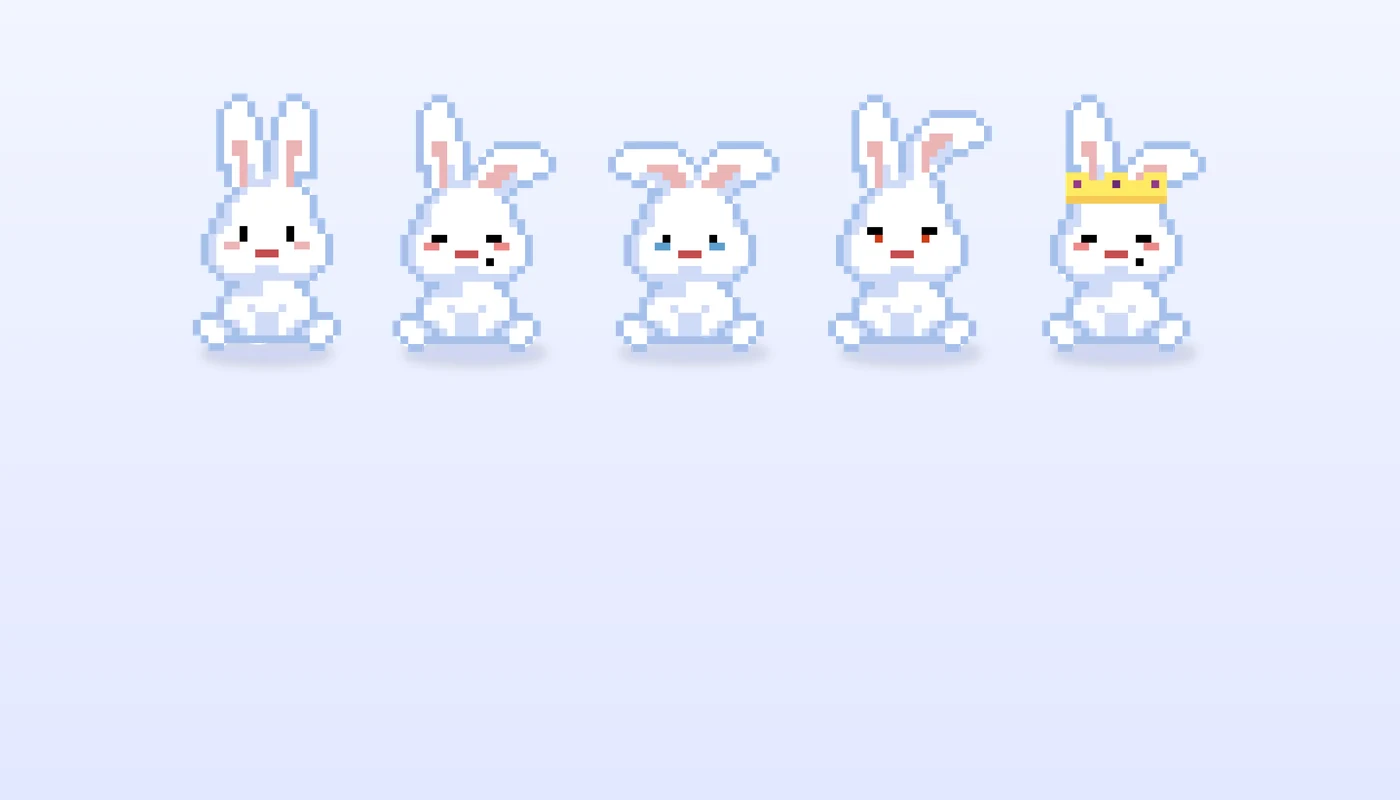
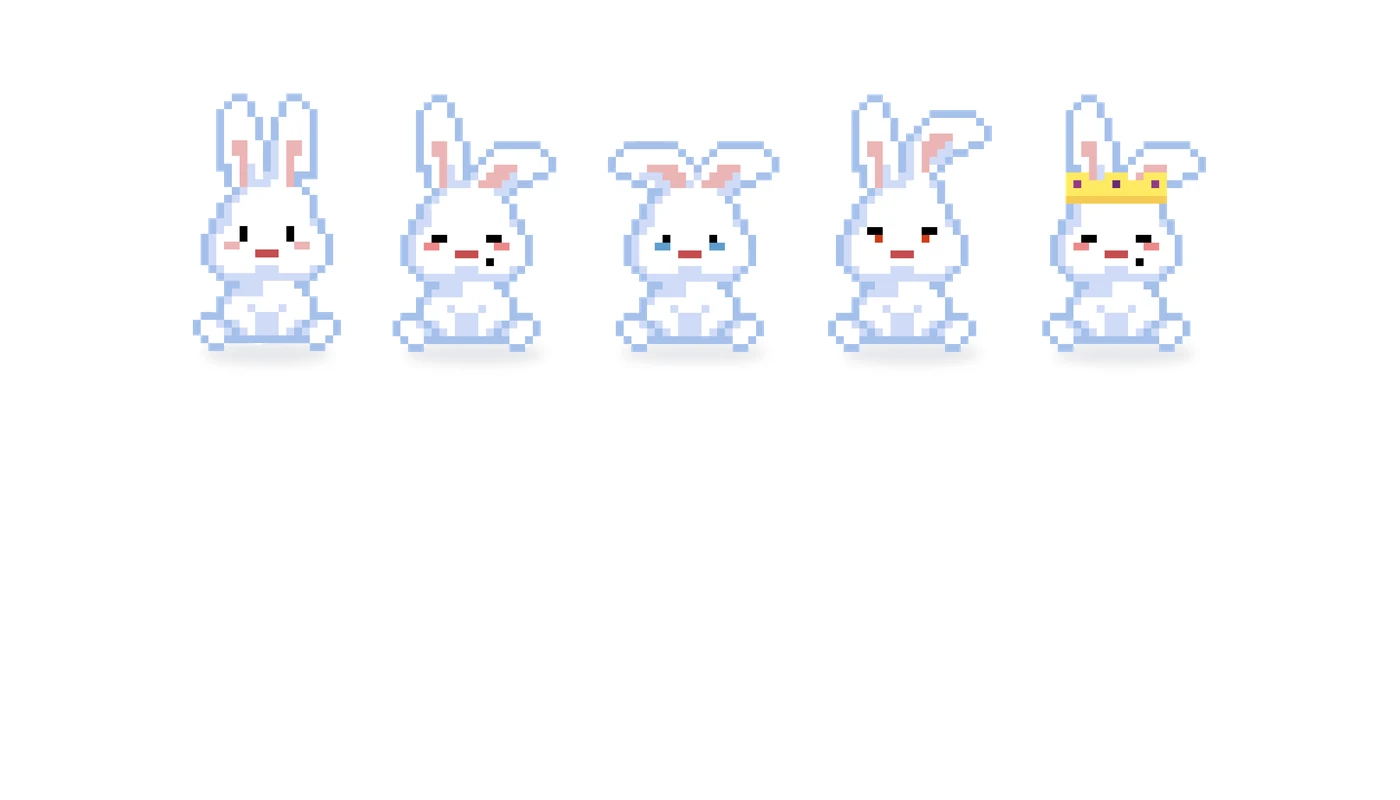
Mochi: a small line of bunnies, no lavender background
The folder thumbnail is white; the project page shows the five moods as a
small transparent strip straight on the page (a new "strip" figure for
papers with `strip: [w, h]`), replacing the boxed lineup.

diff --git a/index.html b/index.html
@@ -228,6 +228,9 @@
   .paper figure { position: relative; margin: clamp(36px, 5vw, 56px) 0 0; }
   .paper figure.single { max-width: 1100px; margin-left: auto; margin-right: auto; aspect-ratio: 16 / 9; border-radius: 22px; overflow: hidden; border: 1px solid #ececf2; background: #fafbff; }
   .paper figure.single img { display: block; width: 100%; height: 100%; object-fit: contain; }
+  /* a small line of artwork that sits straight on the page, no box (Mochi's bunnies) */
+  .paper figure.strip { text-align: center; }
+  .paper figure.strip img { max-width: 100%; height: auto; }
   .paper figure.empty { aspect-ratio: 16 / 7; border-radius: 22px; overflow: hidden; }
   .paper figure .shot-empty { height: 100%; }
   /* screenshots slide past on a loop as glossy tiles; hover to pause */
@@ -1074,7 +1077,8 @@
       title: "Mochi",
       tag: "A pixel productivity bunny who lives on my taskbar and gets upset when I am off task.",
       meta: [["Type", "Windows desktop app"], ["Role", "Designer & Developer"], ["Year", "2026"]],
-      imgs: [["mochi-moods.webp", "Mochi in five moods: cheering me on, proud, sad, angry, and celebrating with a crown"]],
+      imgs: [["mochi-line.webp", "Mochi in five moods: cheering me on, proud, sad, angry, and celebrating with a crown"]],
+      strip: [424, 113],
       story: [
         ["What I Made", ["Website blockers are easy to switch off, so I wanted one built around my own study and work habits, with no loopholes for me to find. I drew Mochi, gave her a spot on my taskbar, and built a desktop app around her."]],
         ["What It Does", ["Mochi watches which app or site I’m on. When I’m working, she’s happy and cheers me on. When I drift off task, she gets sad, then angry, and after 5 minutes a full-screen blocker steps in. Before a session I tell her which task I’m doing, and if I try to end early, she makes me get past her first two excuses. Staying focused earns carrots I can spend on little outfits for her."]],
@@ -1118,7 +1122,9 @@
       : loop
         ? `<div class="pg"><figure class="is-loop"><div class="pg-run" style="--n:${c.imgs.length}${c.ratio ? `;--ratio:${esc(c.ratio)}` : ""}">${[0, 1].map(copy => c.imgs.map(([f, alt]) =>
             `<div class="pg-slide"${copy ? ' aria-hidden="true"' : ""}><img src="assets/works/${esc(f)}" alt="${copy ? "" : esc(alt)}"></div>`).join("")).join("")}</div></figure>${pauseBtn}</div>`
-        : `<figure class="single"><img src="assets/works/${esc(c.imgs[0][0])}" alt="${esc(c.imgs[0][1])}"></figure>`;
+        : c.strip
+          ? `<figure class="strip"><img src="assets/works/${esc(c.imgs[0][0])}" width="${c.strip[0]}" height="${c.strip[1]}" alt="${esc(c.imgs[0][1])}"></figure>`
+          : `<figure class="single"><img src="assets/works/${esc(c.imgs[0][0])}" alt="${esc(c.imgs[0][1])}"></figure>`;
     const list = rows => `<ul>${rows.map(([k, v]) => `<li${t(k + v)}><b>${esc(k)}</b>: ${esc(v)}</li>`).join("")}</ul>`;
     paperBody.innerHTML = `
       <header class="paper-head">
